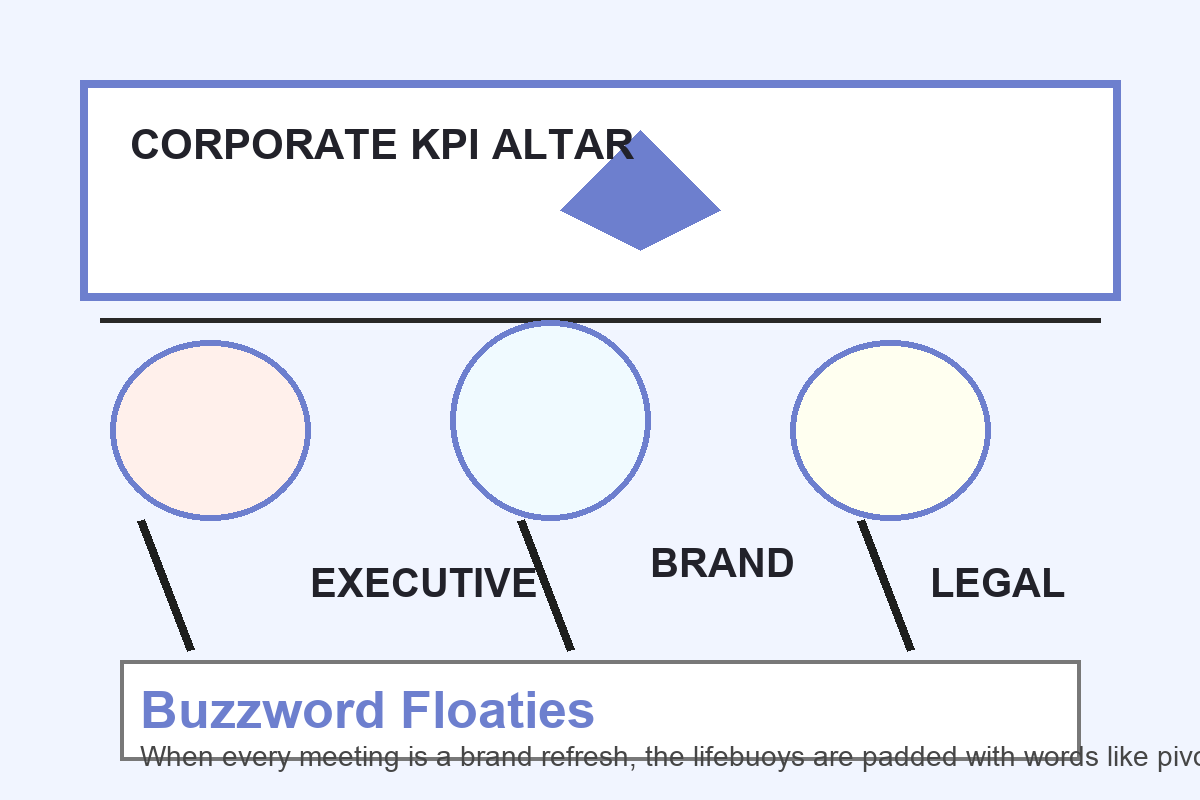
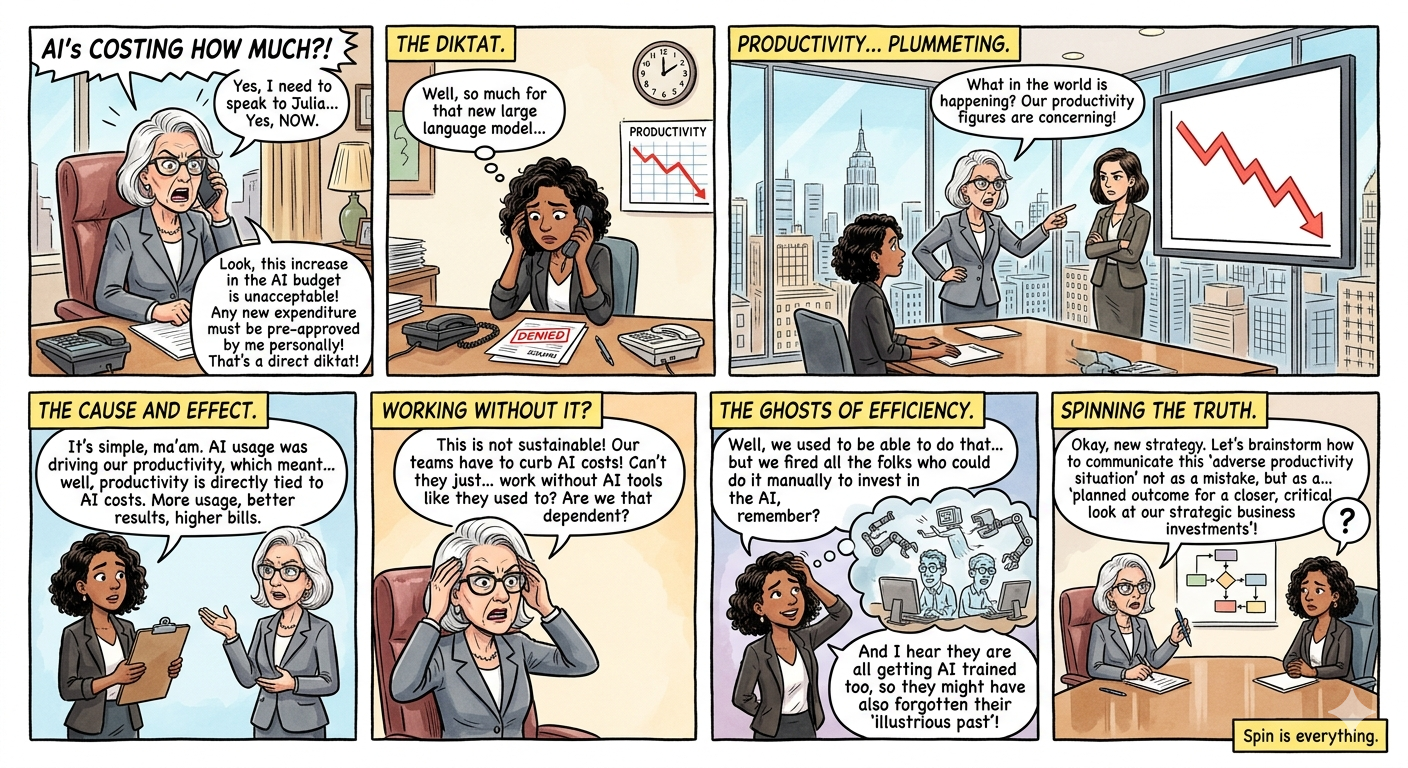
Add cartoon3-5 gallery rows and update index.html

diff --git a/index.html b/index.html
@@ -47,6 +47,39 @@
       </section>
     </section>
 
+    <section class="gallery-row">
+      <section class="gallery gallery-3">
+        <article class="card card--three">
+          <img src="images/cartoon3.png" alt="Cartoon: The ultimate executive whiplash" />
+          <div class="card-copy">
+            <h3>The ultimate executive whiplash</h3>
+            <p>Life of a Junior Executive 3</p>
+          </div>
+        </article>
+      </section>
+      <section class="gallery gallery-4">
+        <article class="card card--four">
+          <img src="images/cartoon4.png" alt="Cartoon: AI Snake Oil" />
+          <div class="card-copy">
+            <h3>AI Snake Oil</h3>
+            <p>Life of an AI Executive 1</p>
+          </div>
+        </article>
+      </section>
+    </section>
+
+    <section class="gallery-row">
+      <section class="gallery gallery-5">
+        <article class="card card--five">
+          <img src="images/cartoon5.png" alt="Cartoon: AI Strategic Shift" />
+          <div class="card-copy">
+            <h3>AI Strategic Shift</h3>
+            <p>Life of an AI Executive 2</p>
+          </div>
+        </article>
+      </section>
+    </section>
+
     <section class="cta">
       <h2>Satire, globally accessible</h2>
       <p>A strategic deliverable optimized to cross-functionally optimize the wellness metrics of severely over-caffeinated stakeholders.</p>